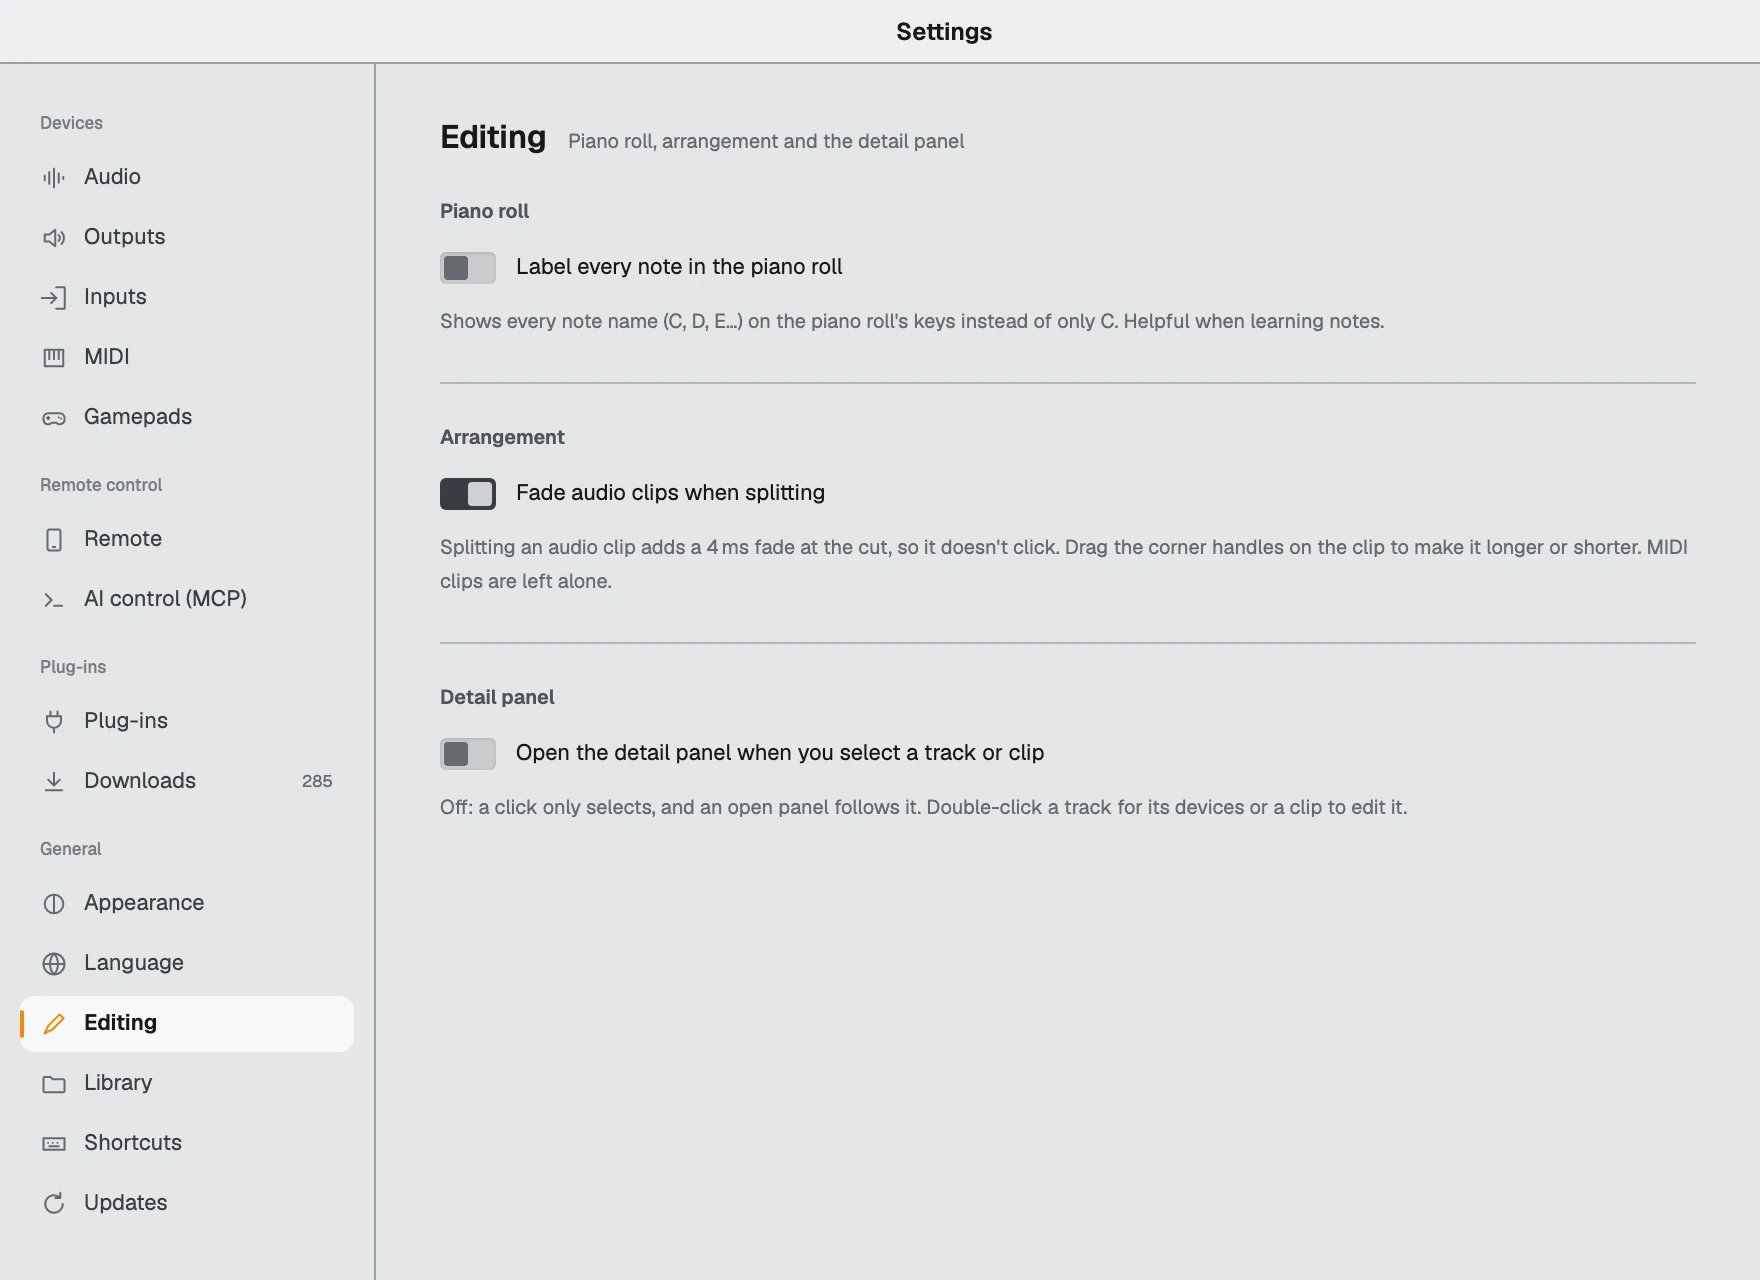
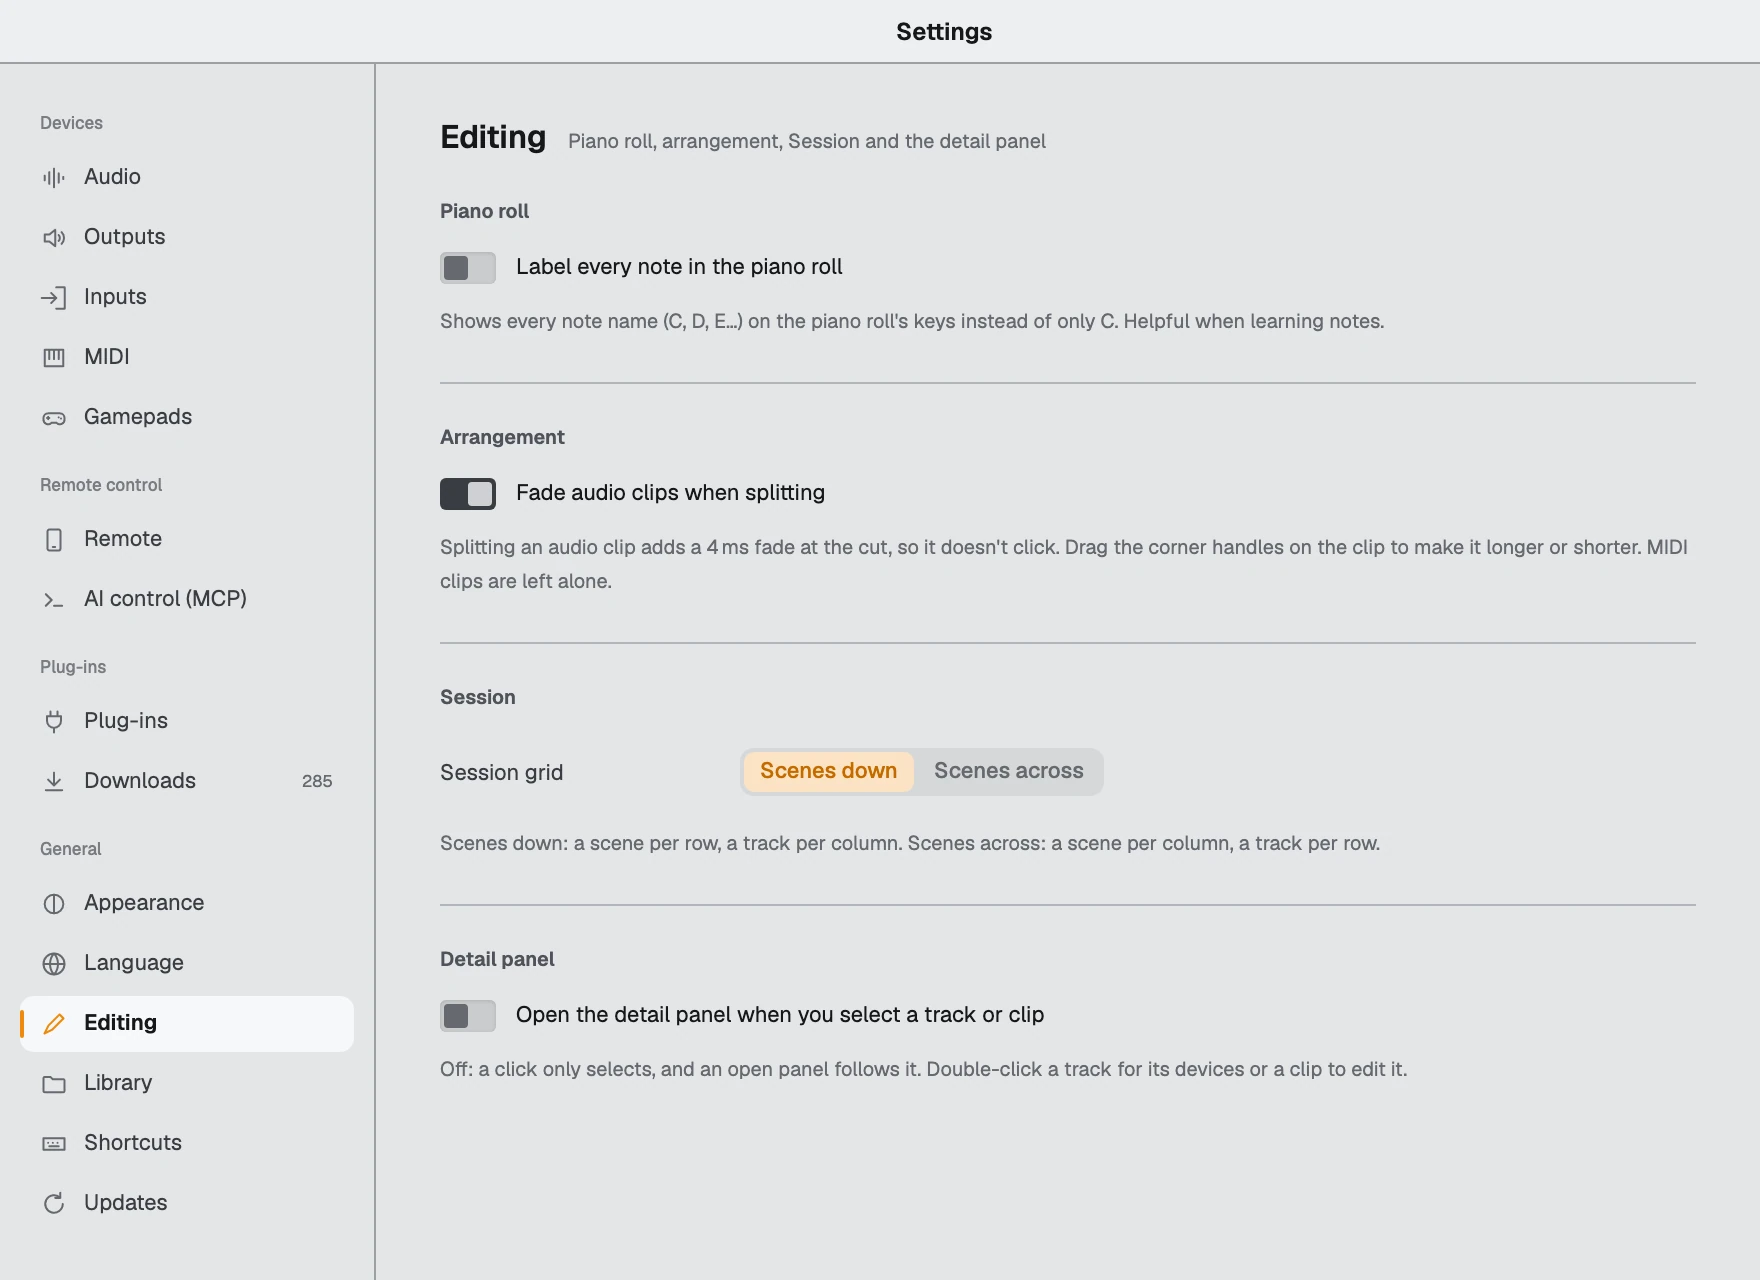
(docs) Session: turn the grid — Scenes down / Scenes across, and "As in Nota" on Remote (nota-daw/nota#968)
New "Turn the grid" section on the Session page, the Session grid choice in Settings ▸ Editing,
"As in Nota" in Nota Remote's Session grid choice (and Nota NX), EN + RU. New shot
views/session-across; the shots harness takes a per-shot sessionGrid and resets it for every
other shot. Shortcuts reference regenerated (the Session selection commands are now named
previous / next scene and track).

Changed region(s): [[0.25, 0.5312, 0.7812, 0.6875], [0.25, 0.7188, 0.7812, 0.8438], [0.4375, 0.0938, 0.5938, 0.125]]

diff --git a/shots/app/Scenes.cs b/shots/app/Scenes.cs
@@ -106,6 +106,13 @@ public sealed class Scenes
 
     public void Run(Shot shot)
     {
+        // Session grid orientation (Nota specs/108): `sessionGrid: "across"` turns the grid for
+        // one shot; every other shot sees the default, so a turned shot never leaks into the next.
+        if (App.Services!.GetService(typeof(ISettingsService)) is ISettingsService gridSettings)
+        {
+            string grid = shot.Str("sessionGrid") ?? "down";
+            if (gridSettings.Current.SessionGrid != grid) { gridSettings.Current.SessionGrid = grid; gridSettings.Save(); Pump(5); }
+        }
         switch (shot.Scene)
         {
             case "device": Device(shot); break;
